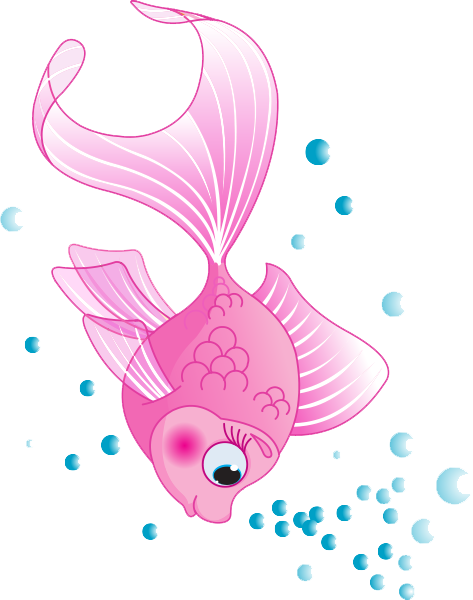
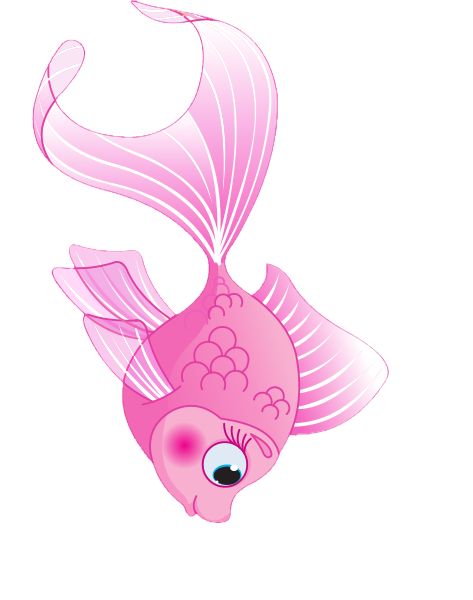
23.nov

diff --git a/test3.py b/test3.py
@@ -13,15 +13,14 @@ BREDDE = 720
 vindu = pygame.display.set_mode((BREDDE, HOYDE)) # Lager et vindu med de definerte konstante variablene 
 
 # Bilder 
-spiller_bilde = [
-                pygame.transform.scale_by(pygame.image.load("bilder/spiller.png").convert_alpha(), 0.1),
-                pygame.transform.scale_by(pygame.image.load("bilder/spiller-ned.png").convert_alpha(), 0.1),
-                pygame.transform.scale_by(pygame.image.load("bilder/spiller-opp.png").convert_alpha(), 0.1)]
+spiller_bilde = [   pygame.transform.scale_by(pygame.image.load("bilder/spiller.png").convert_alpha(), 0.09), 
+                    pygame.transform.scale_by(pygame.image.load("bilder/spiller-ned.png").convert_alpha(), 0.09),
+                    pygame.transform.scale_by(pygame.image.load("bilder/spiller-opp.png").convert_alpha(), 0.09)]
 hai_bilde = pygame.transform.scale_by(pygame.image.load("bilder/hai.png").convert_alpha(), 0.15)
 sand_bilde = pygame.image.load("bilder/sand.png")
 havet_bilde = pygame.image.load("bilder/havet.png")
 gress_bilde = pygame.transform.scale_by(pygame.image.load("bilder/gress.png").convert_alpha(), 0.2)
-game_over_bilde = pygame.transform.scale_by(pygame.image.load("bilder/game_over.jpeg").convert_alpha(), 0.25)
+game_over_bilde = pygame.transform.scale_by(pygame.image.load("bilder/game_over.jpeg").convert_alpha(), 1)
 # spill variabler 
 
 bakke_fart = 1 # hvor for bakken kommer til å bevege seg og hindrene kommer til å komme 
@@ -45,7 +44,6 @@ class Hinder(pygame.sprite.Sprite):
         if self.rect.x <= - BREDDE:
             self.kill()
 
-        
     # Poeng 
         global poeng
         if self.hinder_typ == 'gress':
@@ -62,9 +60,6 @@ class Fisk(pygame.sprite.Sprite):
         pygame.sprite.Sprite.__init__(self)
         self.image = spiller_bilde[0]
         self.rect = self.image.get_rect()
-        #self.image = pygame.transform.scale(self.image, (10, 10))
-        # self.image = pygame.transform.scale_by(spiller_bilde, 0.4)
-       #  self.image = pygame.transform.scale(origin al_image, (spiller_x, spiller_y))
         self.rect.center = fisk_start_pos
         self.image_index = 0
         self.vel = 0 
@@ -72,18 +67,14 @@ class Fisk(pygame.sprite.Sprite):
         self.alive = True
 
     def update(self, user_input):
-        # animate fish
+        # fisk bevegelse
         if self.alive:
             self.image_index += 1 
         if self.image_index >= 30:
             self.image_index = 0 
-        # self.image = spiller_bilde[self.image_index // 10]
         self.image = spiller_bilde[self.image_index // 10]
-        # self.image = pygame.transform.scale_by(self.bilde, 0.2)
 
-        # self.scaled_image = pygame.transform.scale(self.image, (10, 10)) # Ny
-
-    # gravity and flap 
+    # tyngdekraft og swømme
         self.vel += 0.5
         if self.vel > 7:
             self.vel = 7
@@ -128,9 +119,9 @@ def quit_game(): # Funksjon som gjør det mulig å avslutte spillet, med å tryk
 # Game main method 
 
 def main(): 
-    global poeng
+    global poeng, bakke_fart
 
-    # Instaniate fisk
+    # Fisk i rammen 
     fisk = pygame.sprite.GroupSingle()
     fisk.add(Fisk())
 
@@ -138,13 +129,13 @@ def main():
     hinder_tid = 0
     hinder = pygame.sprite.Group()
 
-    # Instantiate Initial Ground 
+    # setter på sanden med koordinater 
     x_pos_bakke, y_pos_bakke = 0, 360
     bakke = pygame.sprite.Group()
     bakke.add(Bakke(x_pos_bakke, y_pos_bakke))
 
-
     start = True
+    teller = 0
     while start:
         # Quit
         quit_game() # Lar oss avslutte spillet
@@ -152,34 +143,30 @@ def main():
         # Reset Frame
         vindu.fill((0, 0, 0)) # Setter bagrunnsfargen i form av RGB values som er Rød Grønn og Blå
 
-       
-
         # User input 
         user_input = pygame.key.get_pressed()
 
         # Tegne bakgrunn
         vindu.blit(havet_bilde, (0, 0)) # bruker et bilde som bakgrunn, andre agrum entet er hvor på skjermen jeg ønsker vinduet 
-        # vindu.blit(spiller_bilde, (spiller_x, spiller_y))
-        # Spawn Ground
+        
+        # At bakgrunnen kommer flere ganger
 
         if len(bakke) <= 2:
             bakke.add(Bakke(BREDDE, y_pos_bakke))
 
-        # Draw - Pipes, ground and bird 
+        # Tegne, fisken bakken og hindringer
         bakke.draw(vindu)
         fisk.draw(vindu)
         hinder.draw(vindu)
 
         poeng_text = font.render('Poeng: ' + str(poeng), True, pygame.Color(255, 255, 255))
-        vindu.blit(poeng_text, (20, 20))
+        vindu.blit(poeng_text, (30, 30))
 
-        #Uptate- piper, grounds and bird
+        #uptatere fisk, bakke og hindringer 
         if fisk.sprite.alive:    
             bakke.update()
             hinder.update()
         fisk.update(user_input)
-        # def draw(self, surface):
-            # surface.blit(self.image, self.rect)
 
         # kollisjon hinder 
         kollisjon_hinder = pygame.sprite.spritecollide(fisk.sprites()[0], hinder, False)
@@ -190,12 +177,11 @@ def main():
                 vindu.blit(game_over_bilde, (BREDDE // 2 - game_over_bilde.get_width() // 2,
                                             HOYDE // 2 - game_over_bilde.get_height() // 2))
 
-
-        # Hinder spawn 
+        # Hinder random spawn
         if hinder_tid <= 0 and fisk.sprite.alive:
             x_top, x_bottom = BREDDE, BREDDE  # Endret x-posisjonene til høyre kant av vinduet
-            y_top = random.randint(100, 200)  # Justert området for tilfeldig vertikal posisjon
-            y_bottom = random.randint(360, HOYDE)
+            y_top = random.randint(80, 170)  # Justert området for tilfeldig vertikal posisjon
+            y_bottom = random.randint(430, HOYDE)
 
             # Sjekker om hindret går utenfor skjermen og justerer i så fall posisjonen
             if y_bottom > HOYDE:
@@ -206,13 +192,10 @@ def main():
             hinder_tid = random.randint(180, 250)
 
         hinder_tid -= 1
-
-
-        # spawn ground 
-
-        #if len(bakke) <= 2: 
-            #bakke.add(Bakke(BREDDE, y_pos_bakke))
-
+        teller += 1
+        if teller > 600:
+            bakke_fart += 1
+            teller = 0
         klokke.tick(60) # hvor mange ruter spillet skal bevege seg i pr sek, limmiterer til 60 "frams"pr sekund
         pygame.display.update() # Hvis stemmer opptatere vindet
-main()
+main()      
